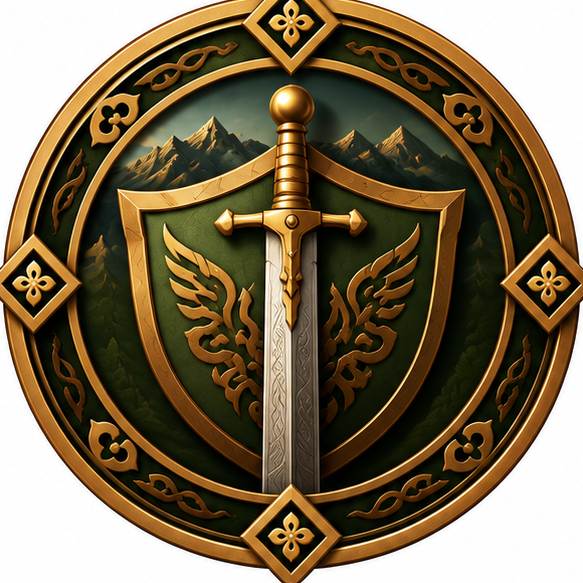
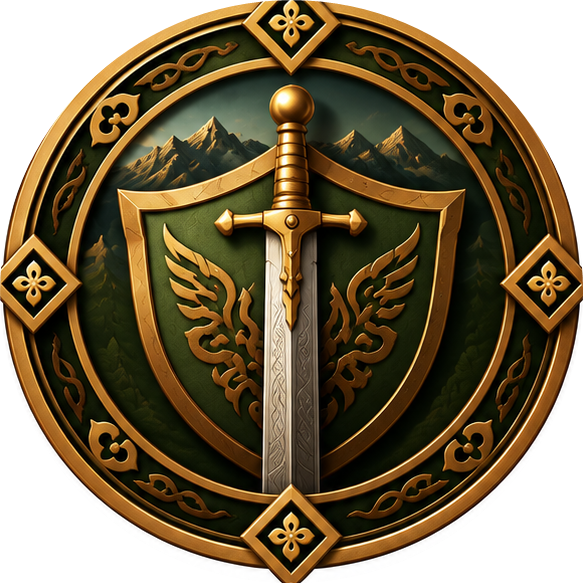
Fix achievement preview: real transparency + responsive single-row layout
Root cause of the 3-column wrap: AchievementsPreviewCard's grid used
flexWrap + a hardcoded 84px item width. 4*84 + 3 gaps (384px) doesn't
fit inside a 375px screen's available width (343px after horizontal
padding), so the 4th medal wrapped to its own row. Fixed by removing
the wrap entirely and making each item an equal flex:1 share of the
row - exactly 4 always fit, at whatever width that leaves per item on
that screen (roughly 77-90px across 375-430px), never a fixed number.

Root cause of the white square: the source sprite sheet
(Format24bppRgb) has no alpha channel at all - the "background" is
genuinely opaque white pixels, confirmed by reading raw pixel values.
A color-based fix (make white pixels transparent) would have been
wrong here - the mountain medal has snow/clouds and the yurt medal has
cream felt, both near-white. Instead, re-cropped from the original
sprite sheet through a circular FillEllipse composite onto a real
32bppArgb canvas (TextureBrush + AntiAlias smoothing gives a properly
anti-aliased circular alpha edge) - background pixels outside the
medal's circle are now genuinely alpha 0, confirmed by reading the
new files' pixel format and corner alpha values.

Also: locked-state opacity raised from 0.45 to 0.55 (medal stays
recognizable instead of washed out) across all three surfaces that
show it, and the label reserves a fixed 2-line height so achievements
with a 1-line title don't sit at a different vertical position than
ones with 2.
[…]

diff --git a/src/features/profile/components/AchievementsPreviewCard.tsx b/src/features/profile/components/AchievementsPreviewCard.tsx
@@ -47,7 +47,7 @@ export function AchievementsPreviewCard({ achievements, unlockedIds, unlocked, t
                 />
                 {isLocked ? (
                   <View style={styles.lockBadge}>
-                    <Lock size={11} color={colors.textOnDark} strokeWidth={2.25} />
+                    <Lock size={10} color={colors.textOnDark} strokeWidth={2.5} />
                   </View>
                 ) : null}
               </View>
@@ -84,46 +84,65 @@ const styles = StyleSheet.create({
     ...typography.caption,
     color: colors.textSecondary,
   },
+  // Fixed-width items + wrap is what turned this into a 3-then-1 layout
+  // on normal phone widths (4 * 84px + 3 gaps didn't fit the available
+  // width, so the 4th wrapped). No wrap, and each item is an equal `flex:
+  // 1` share of the row instead of a hardcoded pixel width, so exactly 4
+  // always fit - the medal size itself is however much that leaves per
+  // item on that specific screen, not a fixed number (spec "Task fix...
+  // responsive sizing based on available screen width").
   grid: {
     flexDirection: 'row',
-    flexWrap: 'wrap',
-    gap: spacing.md,
+    flexWrap: 'nowrap',
+    gap: spacing.sm,
   },
   badgeItem: {
+    flex: 1,
     alignItems: 'center',
     gap: spacing.xxs,
-    width: 84,
   },
   // No extra ring/border here - the medallion artwork already has its own
   // ornate gold ring baked in (spec "Task 10... avoid tiny image inside
   // another unnecessary circle... double gold rings"). `contain` shows
   // the full circular medal - the source is already square, so nothing
-  // is cropped or stretched.
+  // is cropped or stretched. `aspectRatio: 1` (not a fixed height) keeps
+  // the medal square at whatever width `flex: 1` computed for this
+  // screen.
   badgeStage: {
-    width: 84,
-    height: 84,
+    width: '100%',
+    aspectRatio: 1,
   },
   badgeImage: {
     width: '100%',
     height: '100%',
   },
+  // Moderate desaturation only (spec "Task fix... locked state washes out
+  // too much") - the medal (now genuinely transparent PNG, no more white
+  // square behind it) stays clearly recognizable, not washed out.
   badgeLocked: {
-    opacity: 0.45,
+    opacity: 0.55,
   },
   lockBadge: {
     position: 'absolute',
-    bottom: 2,
-    right: 2,
-    width: 22,
-    height: 22,
-    borderRadius: 11,
-    backgroundColor: 'rgba(19,32,24,0.75)',
+    bottom: '4%',
+    right: '4%',
+    width: 20,
+    height: 20,
+    borderRadius: 10,
+    backgroundColor: 'rgba(19,32,24,0.8)',
     alignItems: 'center',
     justifyContent: 'center',
   },
+  // Fixed height for exactly 2 lines (spec "Task fix... reserve
+  // consistent title height... do not allow different medal positions
+  // because one title has two lines") - every item's label reserves the
+  // same vertical space regardless of whether this particular title
+  // actually wraps to 1 or 2 lines, so all 4 medals stay level.
   badgeLabel: {
     ...typography.small,
     color: colors.textSecondary,
     textAlign: 'center',
+    lineHeight: 14,
+    minHeight: 28,
   },
 });

diff --git a/src/features/profile/AchievementsScreen.tsx b/src/features/profile/AchievementsScreen.tsx
@@ -160,8 +160,10 @@ const styles = StyleSheet.create({
     width: '100%',
     height: '100%',
   },
+  // Moderate desaturation only (spec "Task fix... locked state washes out
+  // too much") - the medal stays clearly recognizable.
   badgeLocked: {
-    opacity: 0.45,
+    opacity: 0.55,
   },
   lockBadge: {
     position: 'absolute',

diff --git a/src/features/profile/components/AchievementDetailSheet.tsx b/src/features/profile/components/AchievementDetailSheet.tsx
@@ -105,7 +105,7 @@ const styles = StyleSheet.create({
     height: '100%',
   },
   badgeLocked: {
-    opacity: 0.45,
+    opacity: 0.55,
   },
   title: {
     ...typography.h1,
